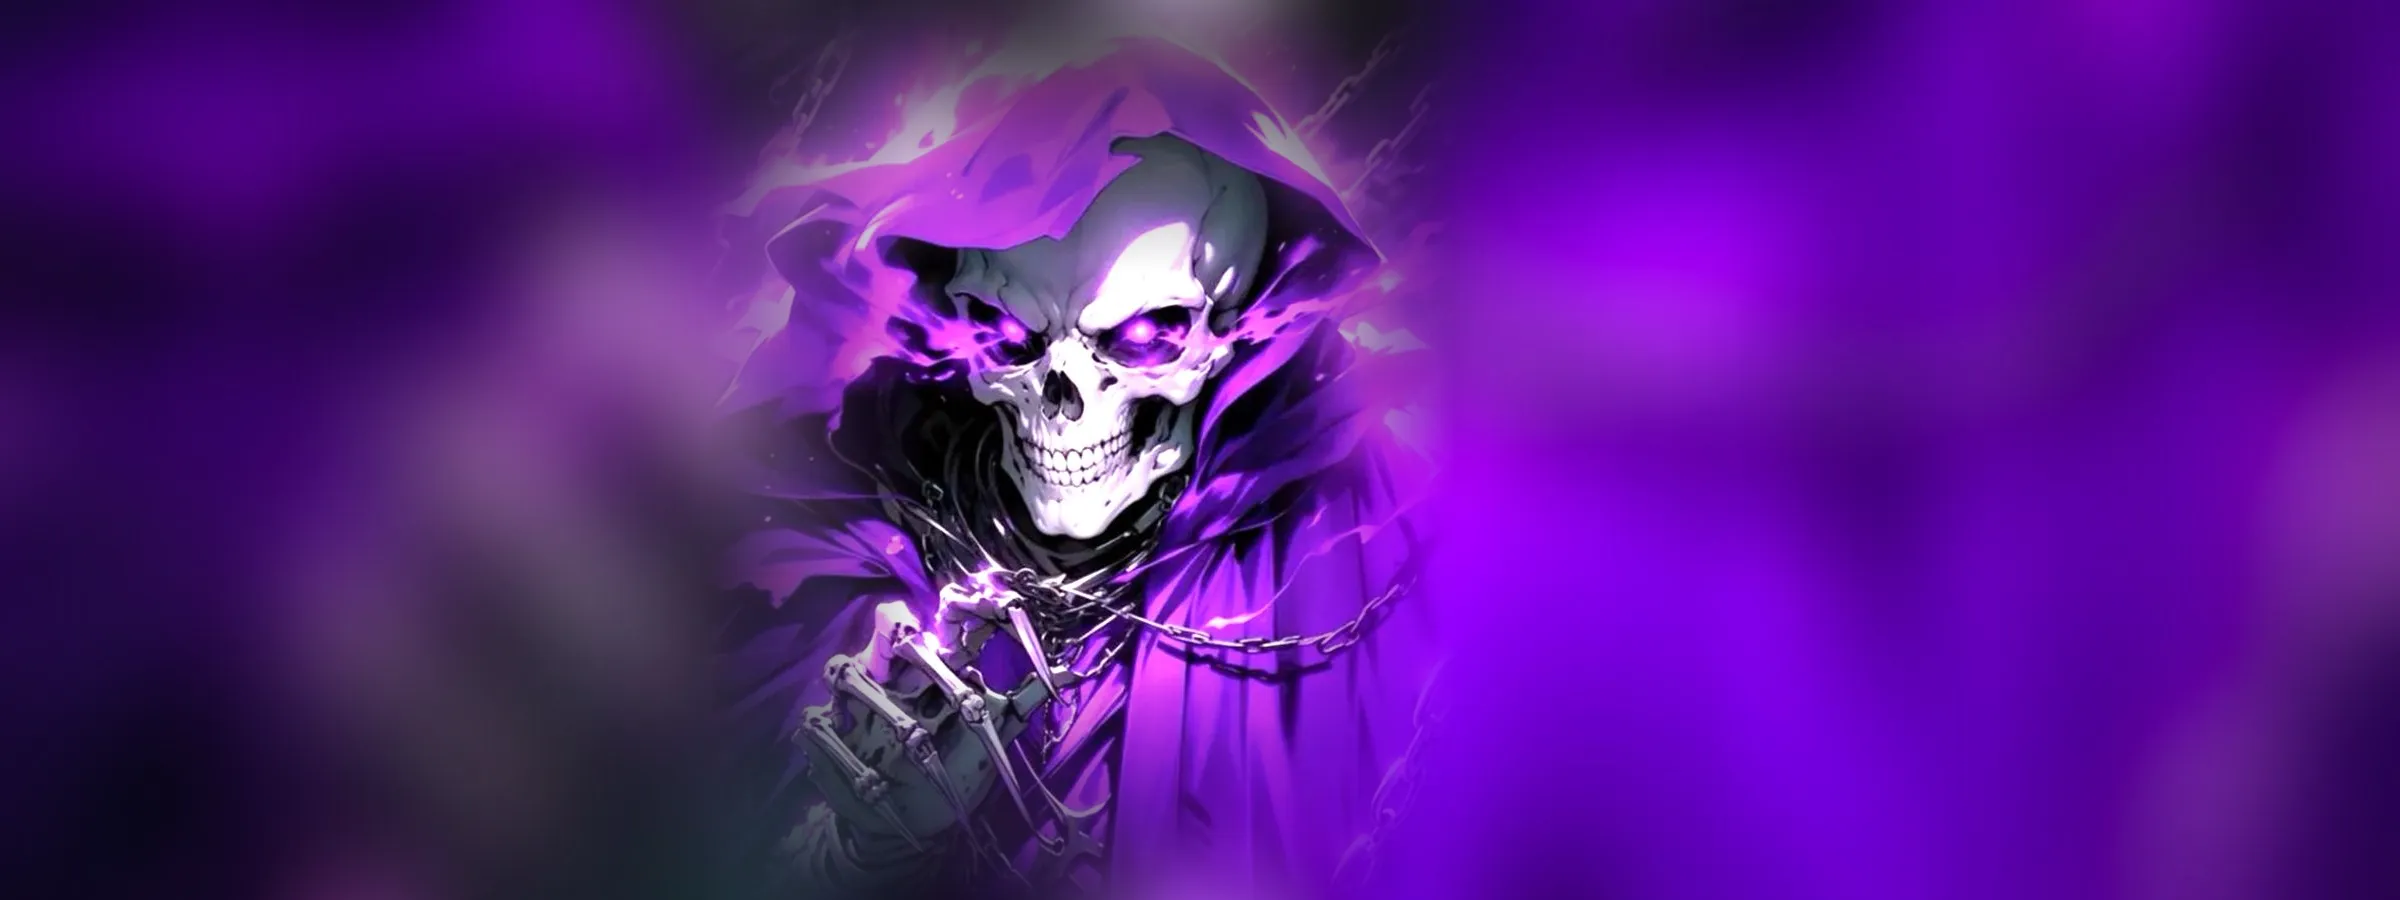
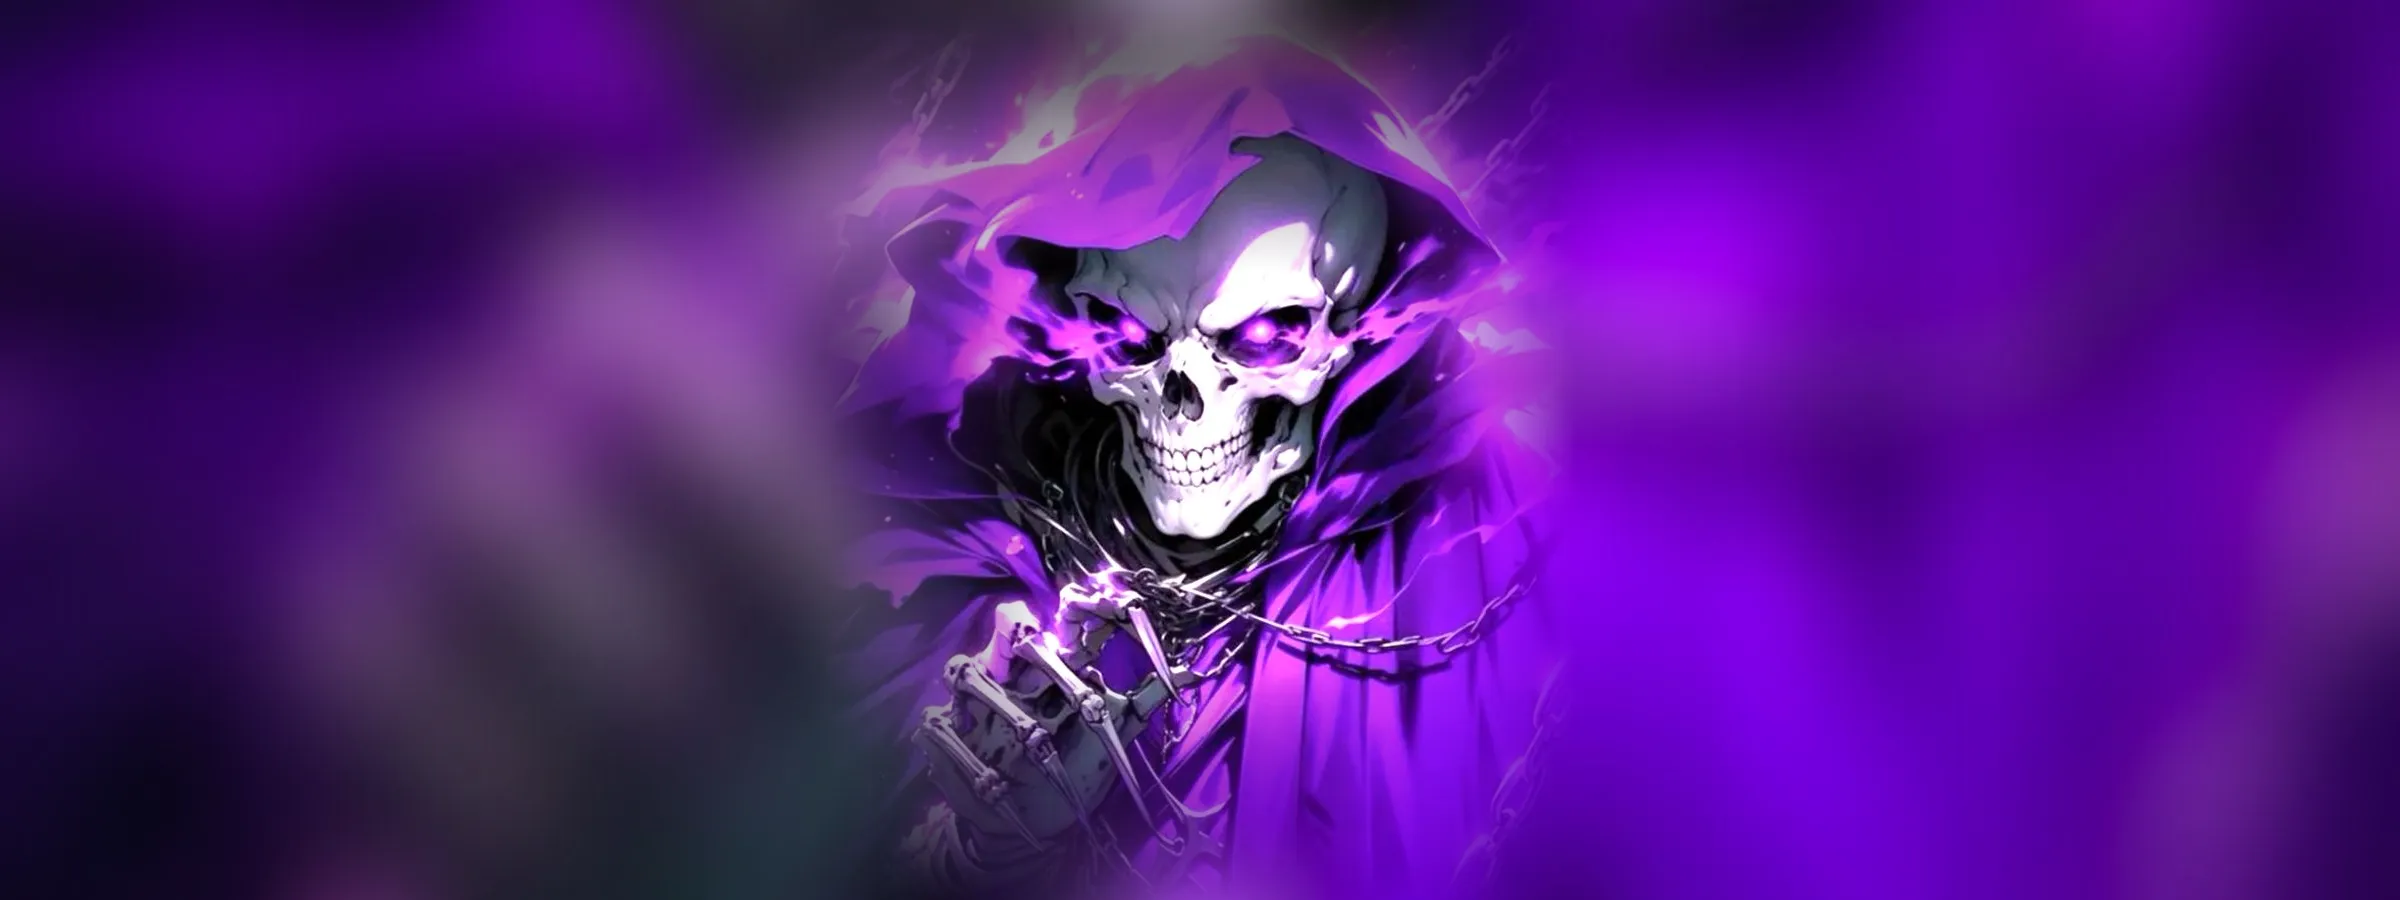
Cartes de rang : nom du rang seul (sans « Classe compétitive ») ; Maître recadrée, faucheuse au centre

Changed region(s): [[0.2812, 0.0311, 0.6562, 0.9644], [0.625, 0.84, 0.6562, 0.8711]]

diff --git a/src/lib/cards.js b/src/lib/cards.js
@@ -13,7 +13,7 @@
  *             l'illustration existe (bannière 2400 x 900, sujet vers 45 % de la largeur ;
  *             mobilePosition décale le sujet sur le bord droit du profil sur téléphone).
  *   mobileImage  image verticale propre au profil sur téléphone (remplace la bannière recadrée)
- *   title     couleur du halo du nom du rang (« Classe compétitive »), en haut à droite du profil ; site seulement
+ *   title     couleur du halo du nom du rang, en haut à droite du profil ; site seulement
  *   light     voile du profil allégé (illustration sombre)
  *   og        bannière JPEG 1200 x 260 pour l'aperçu partagé (images et vidéos ; sinon dessin simplifié)
  *   video     fond animé : { video: "/images/cartes/<clé>.mp4", poster } (boucle courte sans son,
@@ -36,7 +36,7 @@ const CARDS = {
   "rang-or": { rarity: "commune", art: { type: "rank", rank: "Or", title: "#ffb43a" } },
   "rang-platine": { rarity: "rare", art: { type: "rank", rank: "Platine", title: "#2ff3e0" } },
   "rang-diamant": { rarity: "rare", art: { type: "rank", rank: "Diamant", title: "#5cc8ff" } },
-  "rang-maitre": { rarity: "epique", art: { type: "rank", rank: "Maître", title: "#a78bfa", image: "/images/cartes/maitre.webp", og: "/images/cartes/og/maitre.jpg", position: "45% center", mobilePosition: "24% center", light: true } },
+  "rang-maitre": { rarity: "epique", art: { type: "rank", rank: "Maître", title: "#a78bfa", image: "/images/cartes/maitre.webp", og: "/images/cartes/og/maitre.jpg", position: "center", mobilePosition: "50% center", light: true } },
   "rang-grand-maitre": { rarity: "epique", art: { type: "rank", rank: "Grand Maître", title: "#e05cc6", image: "/images/cartes/grand-maitre.webp", og: "/images/cartes/og/grand-maitre.jpg", position: "45% center", mobilePosition: "24% center" } },
   "rang-champion": { rarity: "legendaire", art: { type: "rank", rank: "Champion", title: "#f0a6e8" } },
   "rang-legende": { rarity: "legendaire", art: { type: "rank", rank: "Légende", title: "#ff8a3d", video: "/images/cartes/legende.mp4", poster: "/images/cartes/legende-poster.webp", cover: true, position: "center", mobilePosition: "40% center", og: "/images/cartes/og/legende.jpg", light: true } },

diff --git a/src/components/cod/CallingCard.jsx b/src/components/cod/CallingCard.jsx
@@ -283,8 +283,7 @@ function HudTitle({ art }) {
   const neon = art.hud?.neon ?? art.title;
   return (
     <div className="absolute bottom-[12%] right-[6%] text-right lg:bottom-auto lg:right-[5%] lg:top-[9%]">
-      <p className="font-tech text-[9px] uppercase tracking-[0.35em] text-white/50 lg:text-[10px]">Classe compétitive</p>
-      <p className="mt-1 font-tech text-2xl font-black uppercase leading-none text-white lg:text-4xl" style={{ textShadow: `0 0 18px ${neon}, 0 0 4px ${neon}` }}>
+      <p className="font-tech text-2xl font-black uppercase leading-none text-white lg:text-4xl" style={{ textShadow: `0 0 18px ${neon}, 0 0 4px ${neon}` }}>
         {art.rank}
       </p>
     </div>

diff --git a/src/pages/cod/profile/[id].js b/src/pages/cod/profile/[id].js
@@ -49,7 +49,7 @@ export default function PlayerProfilePage({ meta }) {
 
   const title = meta ? `${meta.username} · ${rankFor(meta.points).name} — ${meta.points} pts` : "Profil joueur";
   // Le paramètre v change avec les résultats et la carte de visite : Discord recharge l'image à chaque évolution.
-  const image = meta ? `${SITE_URL}/api/og/player?id=${id}&v=r23-${meta.points}-${meta.wins}-${meta.losses}-${meta.card}` : null;
+  const image = meta ? `${SITE_URL}/api/og/player?id=${id}&v=r24-${meta.points}-${meta.wins}-${meta.losses}-${meta.card}` : null;
 
   return (
     <>
